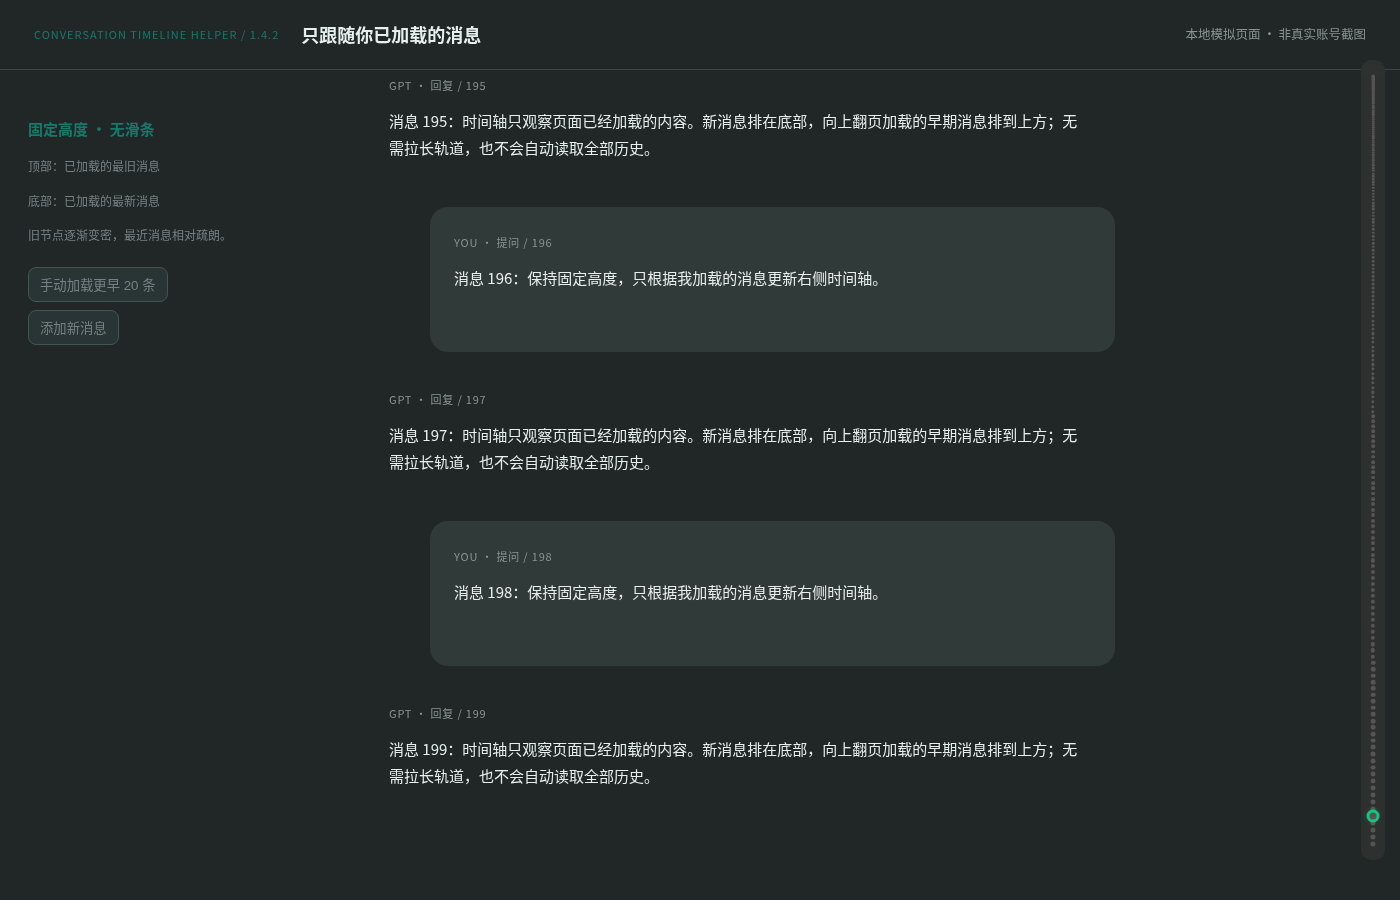
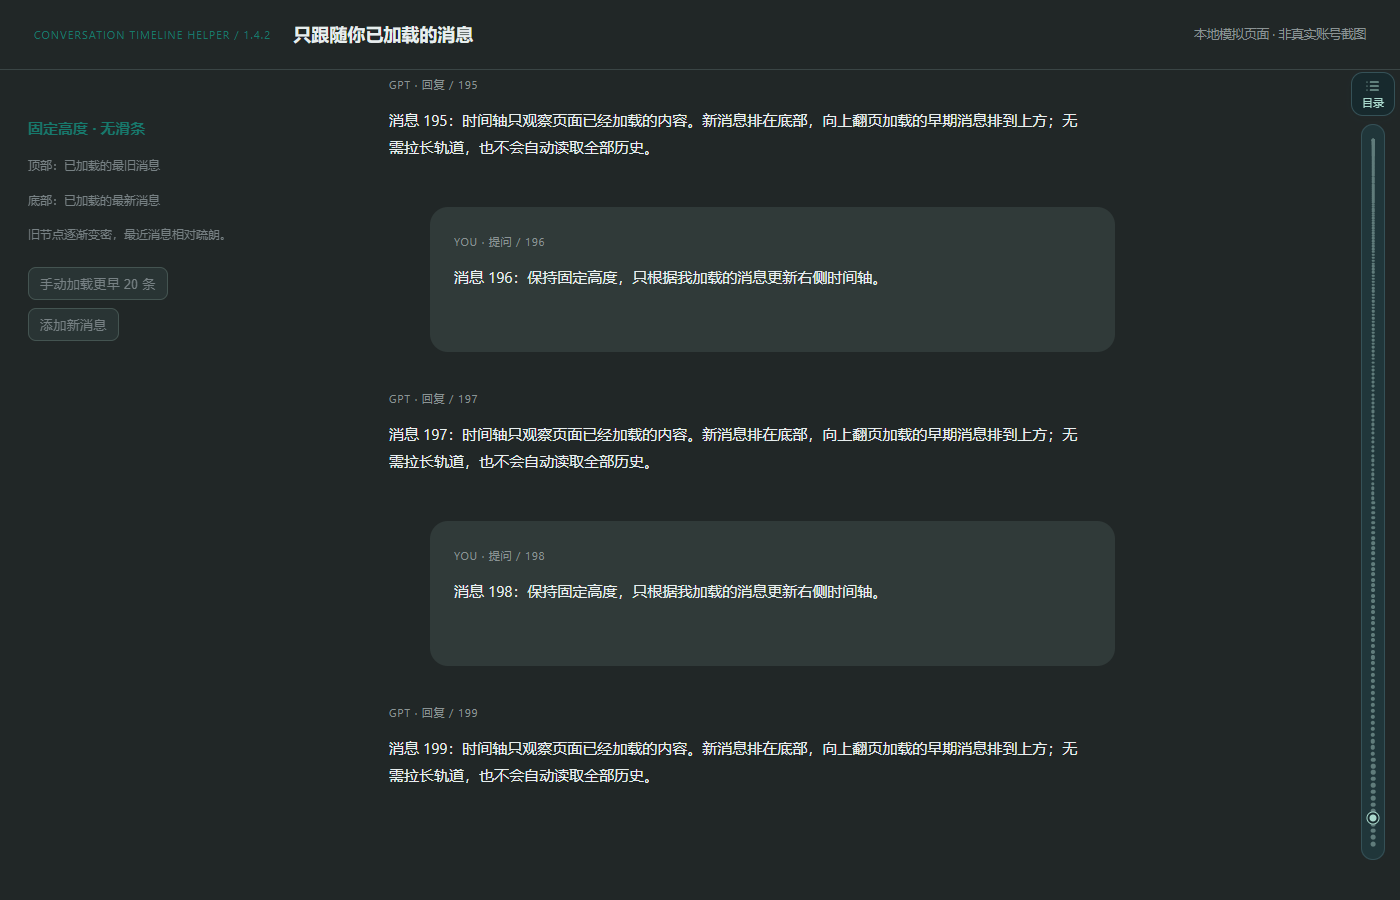
修复 v1.8.1 目录入口遮挡 · extension/docs
将目录入口与轨道下移64px，避开网页顶部原生按钮。同步版本、文档和本次实际验证记录。

diff --git a/extension/docs/DIRECTORY_POSITION_FIX.md b/extension/docs/DIRECTORY_POSITION_FIX.md
@@ -1,0 +1,19 @@
+# v1.8.1 · 目录入口位置修复
+
+目录入口原来距离页面顶部 8px，可能与 ChatGPT 或 Gemini 的下载、全屏等原生按钮重叠。现在入口下移到顶部 72px，时间轴相应从 124px 开始，两者之间留出 8px，底部仍保留 40px。
+
+轨道始终保持当前屏幕内固定高度。消息数量增加不会使轨道变长；左右停靠、最旧和最新消息端点、搜索与密集节点选择沿用原有行为。
+
+更新或重新加载扩展后刷新对话网页，才会使用新位置。无需重新配置语言或收藏。
+
+## 本次验证 · 2026-11-16
+
+- Node 核心与工程检查：116 项通过。
+- ChatGPT 本地浏览器回归：66 项通过。
+- 已加载消息、固定轨道与窗口缩放：24 项通过。
+- 八语言 350px 窄目录布局：1 项通过。
+- ego-browser 本地合成页面：顶部下载、全屏和分享三个按钮均可点击，目录入口与原生按钮无重叠，入口与轨道保留 8px 间隔。
+
+共 207 项自动检查通过。其他测试保留 1.8.0 基线记录，不代表本次重新执行。测试使用本地 DOM 和模拟扩展 API，未进行原生 Edge 安装及所有真实账号灰度界面的完整验收。
+
+![修复后的目录入口和顶部操作区](directory-position-v181.png)
